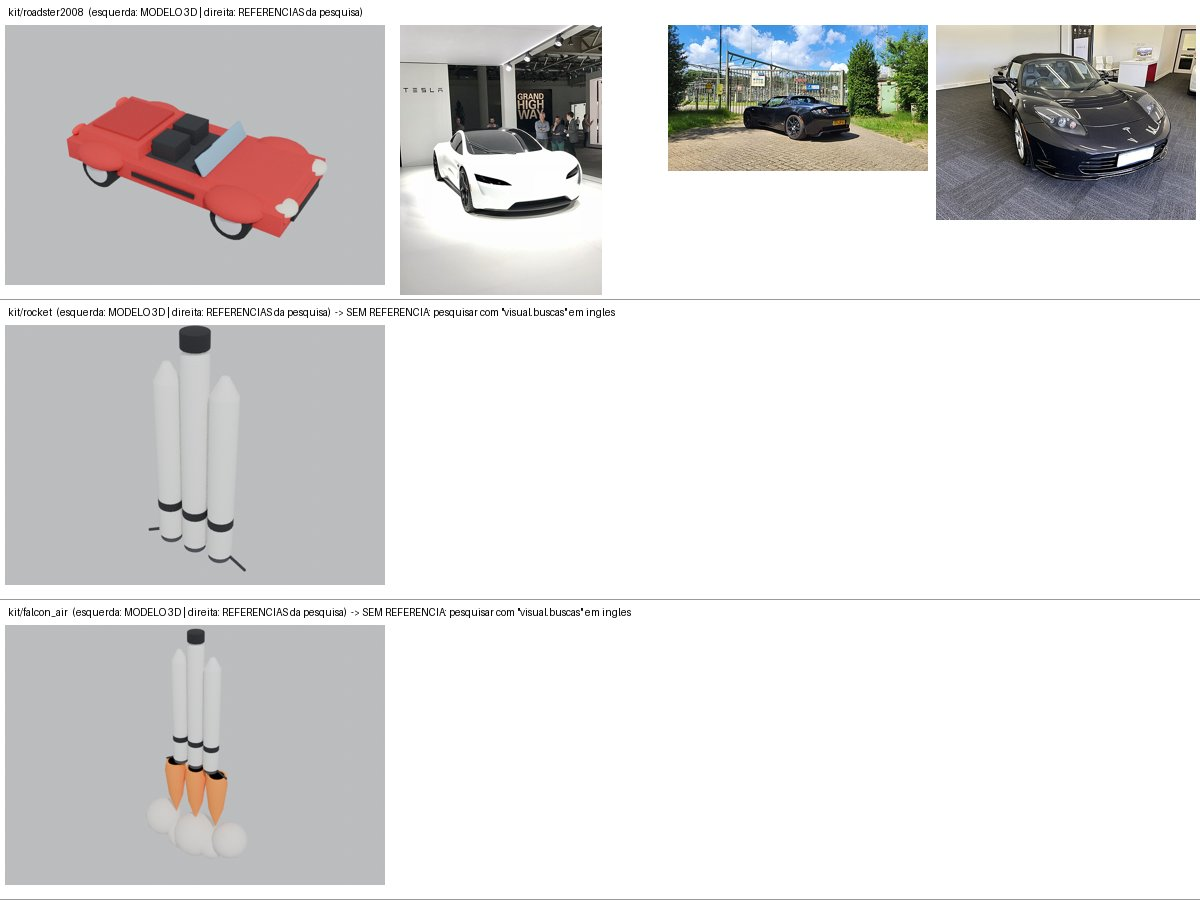
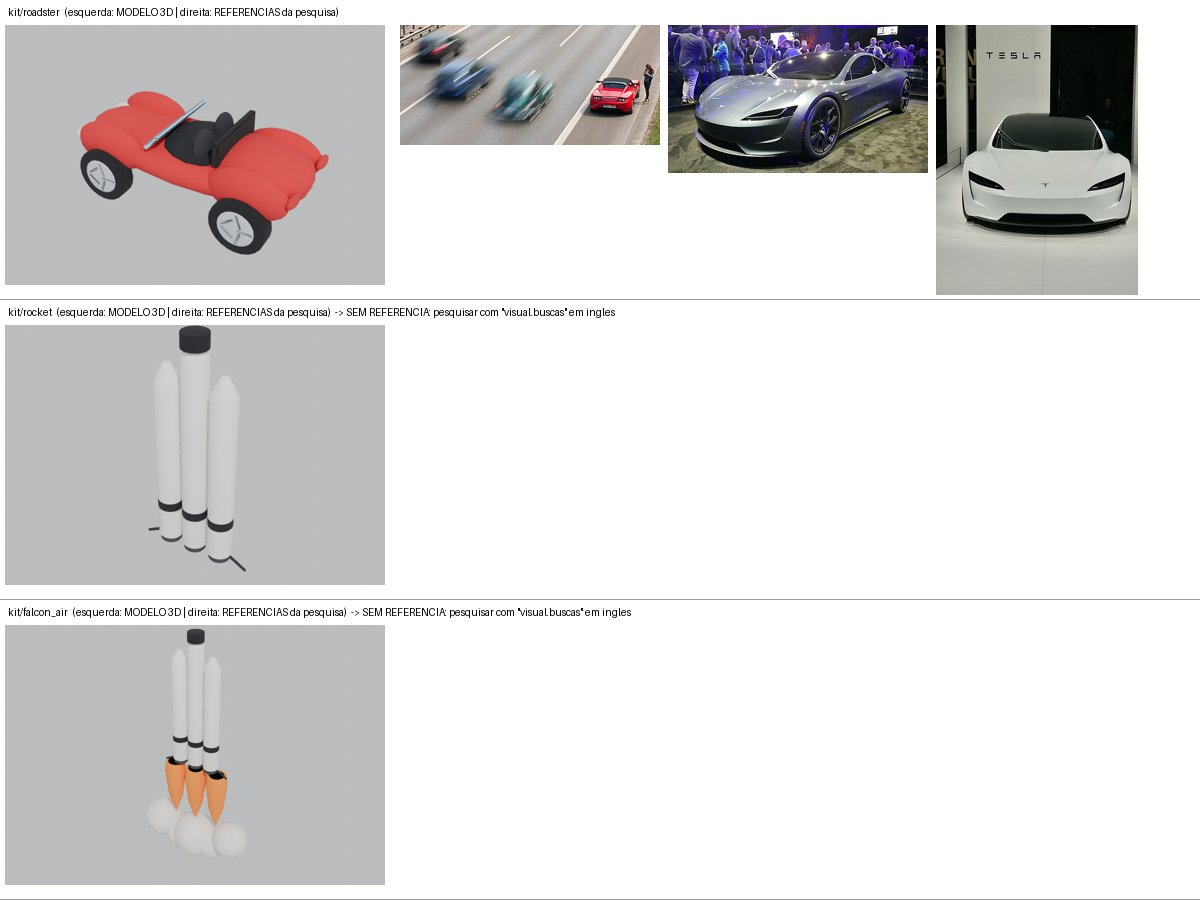
roadster aprovado
Claude-Session: https://claude.ai/code/session_01HE8Dy2XpEMgdYAHCmWZFay

Changed region(s): [[0.3083, 0.0, 1.0, 0.3422], [0.0308, 0.0933, 0.2775, 0.28], [0.0617, 0.0, 0.3083, 0.0311]]

diff --git a/ferramenta-shorts/stories/roadster2018/revisao_storyboard.md b/ferramenta-shorts/stories/roadster2018/revisao_storyboard.md
@@ -1,0 +1,12 @@
+b0: OK - "Um carro de verdade esta dando voltas em torno do Sol": Musk ao lado do roadster vermelho em cenario de gelo e rochas, texto CARRO NO ESPACO, em plano aberto e em close (ponto fraco: o cenario e' gelo, nao espaco, para o gate de estilo nao reprovar por escuridao)
+b1: OK - "E o motorista dele nao respira": o roadster vermelho em plano aberto e o motorista Starman de branco ao lado, em plano medio
+b2: OK - "Em 2018, a SpaceX testou o Falcon Heavy, seu maior foguete": Musk na pista diante do foguete branco de tres corpos, em plano aberto
+b3: OK - "Em vez de um peso de concreto, Musk mandou o proprio carro": o engenheiro e o roadster vermelho na pista, em plano aberto e em plano medio
+b4: OK - "O foguete decolou com um estrondo!": o foguete decolando com chamas e fumaca acima do engenheiro surpreso
+b5: OK - "Acontece que no volante ia um boneco astronauta, o Starman": o roadster vermelho numa sala de madeira e o Starman de branco ao lado do carro, em dois takes (ponto fraco: o Starman fica ao lado do carro, nao sentado no volante, porque a acao de sentar dentro quebrou o motor)
+b6: OK - "No painel, um aviso: nao entre em panico": o roadster em cenario de gelo com o Starman e o texto NAO ENTRE EM PANICO
+b7: OK - "O carro deixou a Terra e foi girar em torno do Sol": o roadster girando num fundo de espaco estrelado com o rotulo FORA DA TERRA
+b8: OK - "Ele continua la ate hoje. Porque...": repete a cena do gancho com Musk e o roadster no gelo, texto CARRO NO ESPACO
+pesquisa: o moodboard (referencias/roadster2018/moodboard.jpg) mostra o Tesla Roadster vermelho com o Starman e o Falcon Heavy de tres corpos; modelos batem, ignorei fotos de cena real no espaco
+defeitos procurados: cenario (gelo, pista, sala, espaco) OK; epoca (sem objeto moderno) OK; tamanho (carro e foguete legiveis) OK; cortado (trava sem falhas) OK; multidao (sem multidao) OK; legenda (rotulos nao cobrem a legenda) OK; acao (decolar, mostrar) OK; objeto (carro, foguete e Starman visiveis quando citados) OK
+comparativo_ok: gancho com o carro vermelho e texto na primeira cena, loop emenda no b8

diff --git a/ferramenta-shorts/stories/roadster2018/cronograma.md b/ferramenta-shorts/stories/roadster2018/cronograma.md
@@ -1,6 +1,6 @@
 # CRONOGRAMA - Poder e Fama EP 08 - O Carro que Foi Parar no Espaço
 
-Gerado em 25/11 22:02 | 9 cenas | metricas: acoes_encenadas 100%, acoes_chave_com_efeito 100%, explicacoes_cobertas 100%, cenario_e_epoca_ok 100%
+Gerado em 25/11 22:03 | 9 cenas | metricas: acoes_encenadas 100%, acoes_chave_com_efeito 100%, explicacoes_cobertas 100%, cenario_e_epoca_ok 100%
 
 ## 1. Plano de cenas (o que cada frase vai mostrar)
 
